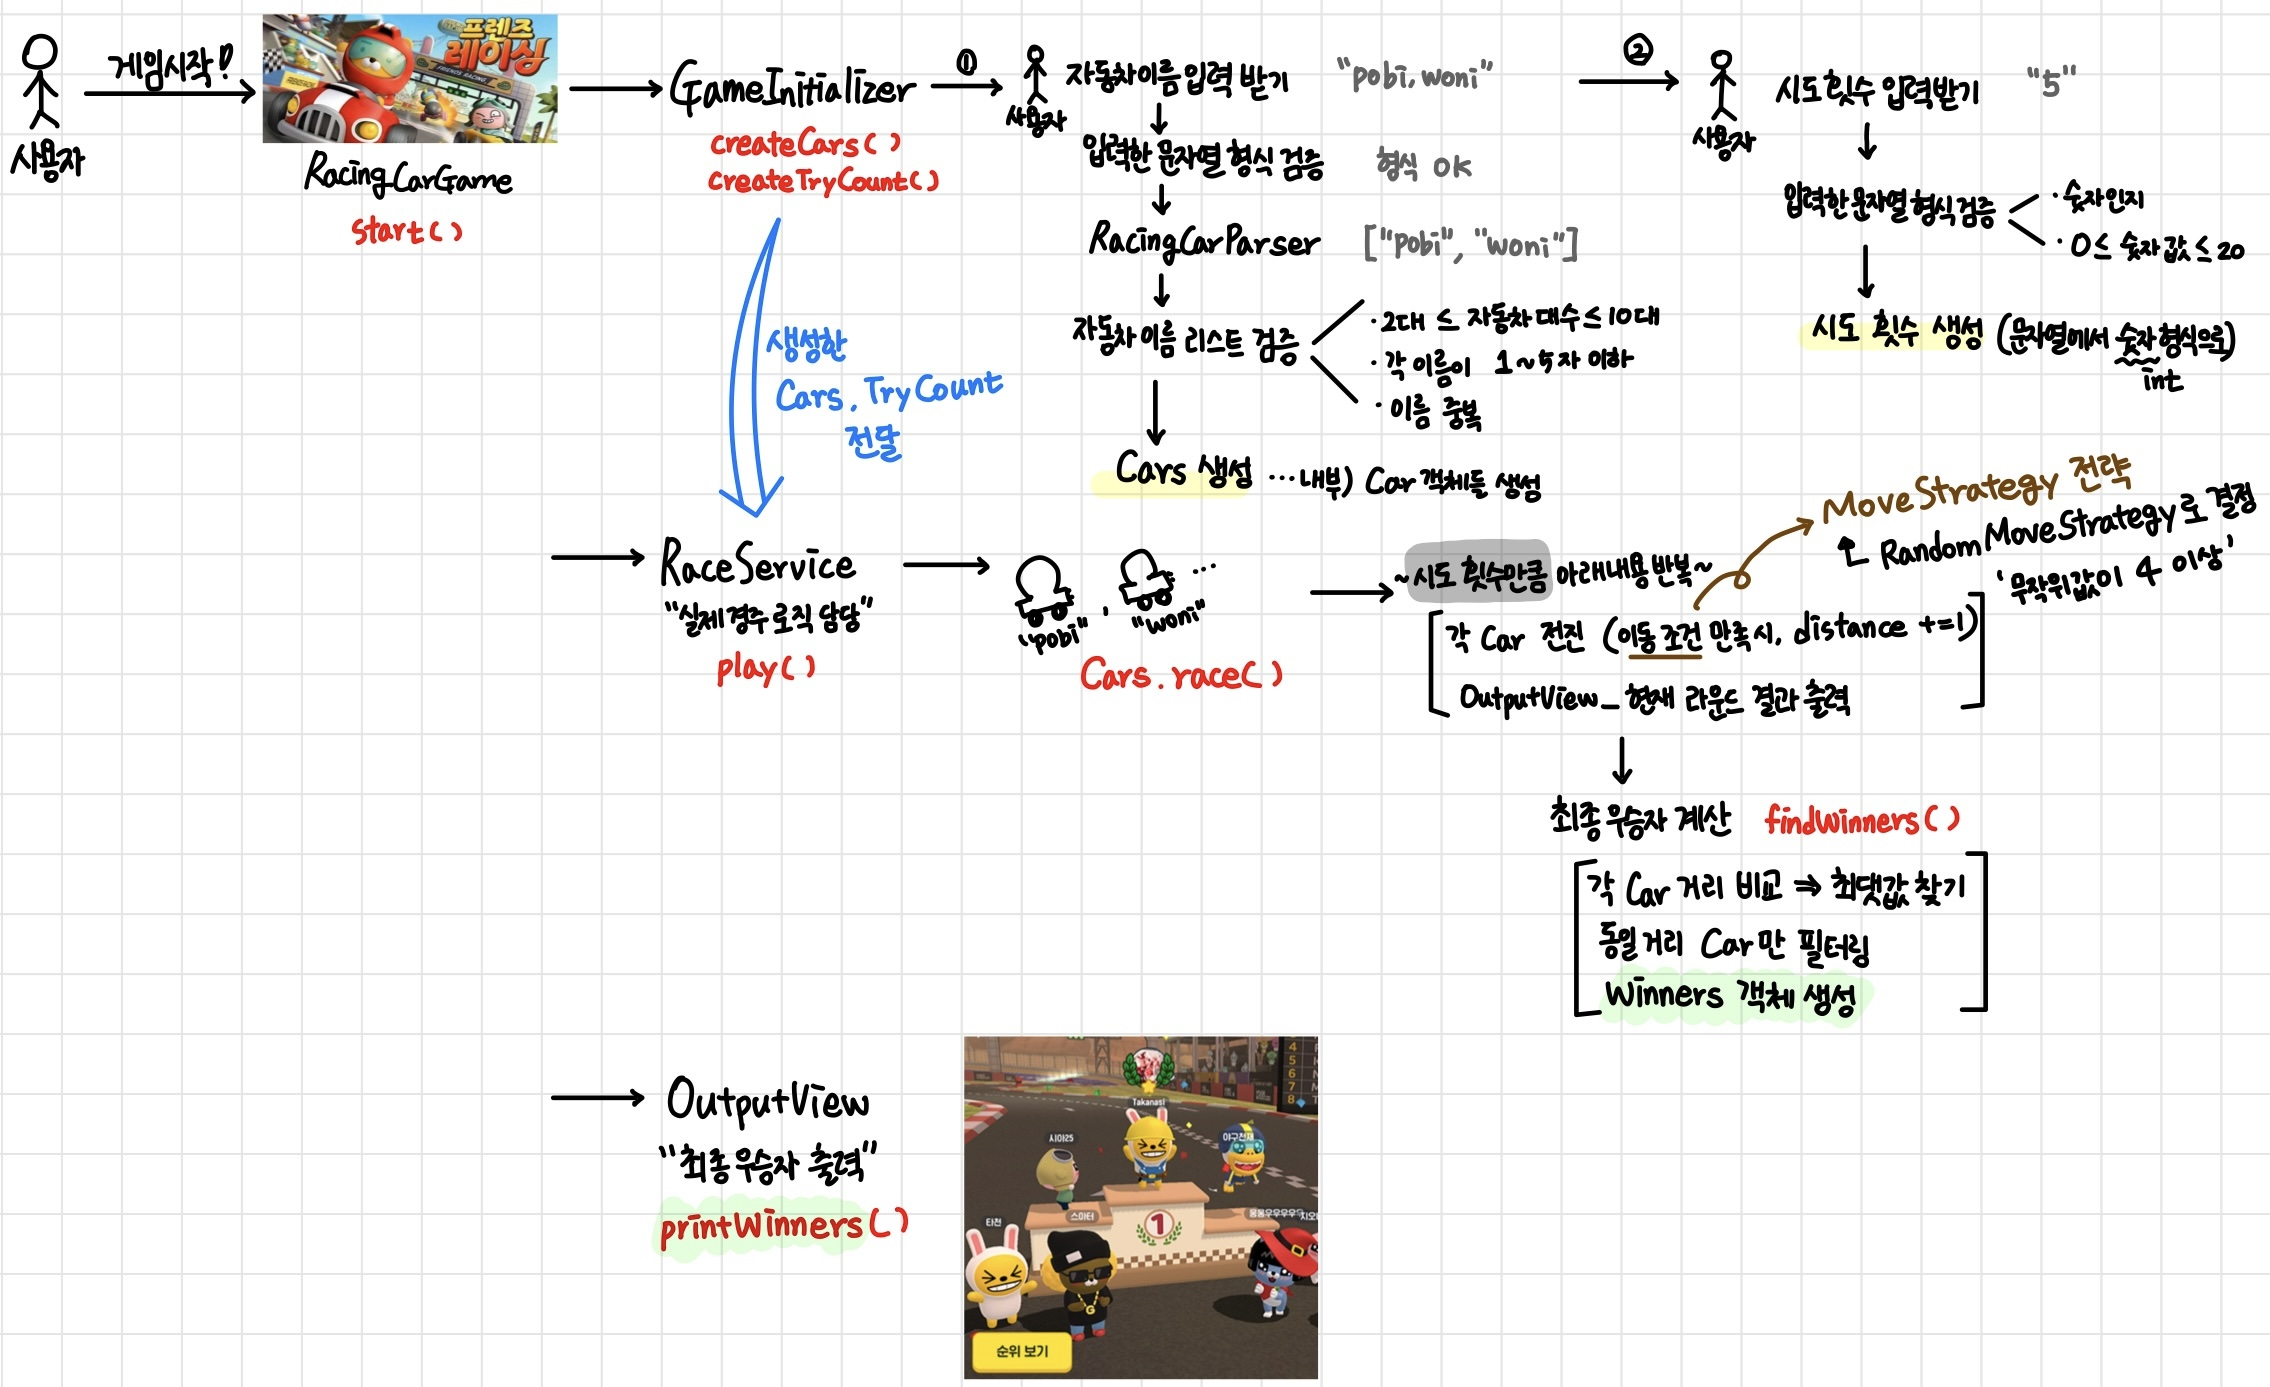
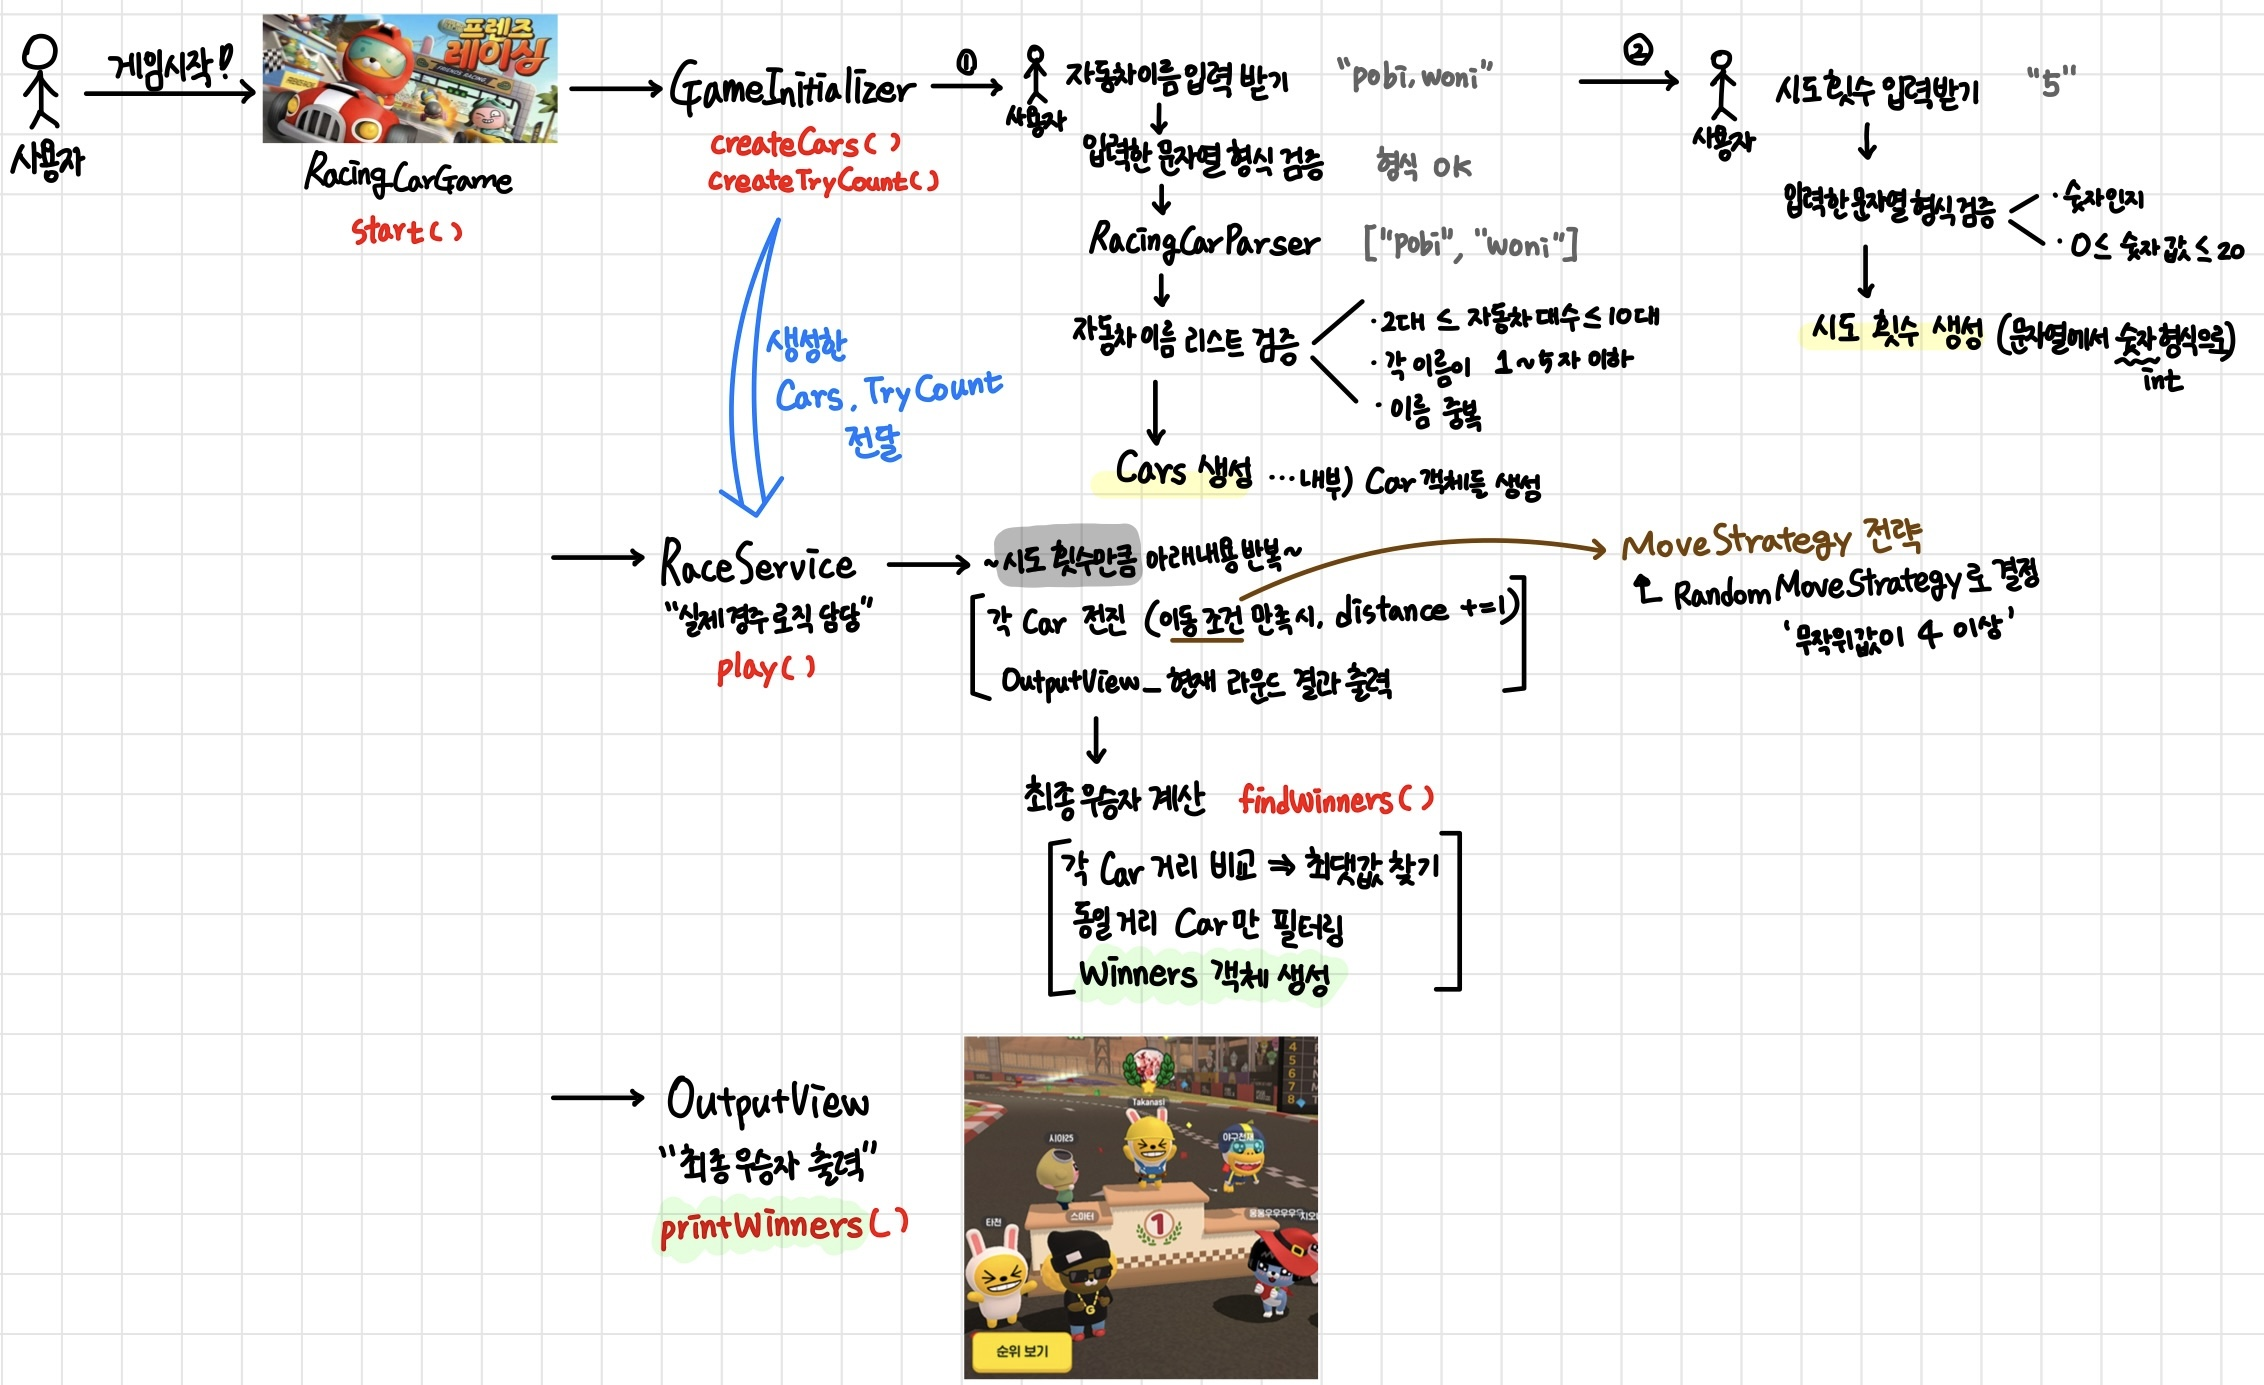
docs: 리팩토링으로 변경된 부분 문서에 적용
리팩토링으로 Cars와 RaceService의 역할이 변경되어 그 부분을 그림과 글에도 적용하였다.
Cars는 raceOnce()로 자동차 이동만 담당하고, RaceService는 반복 수행하며 라운드 출력, 최종 우승자 계산까지
담당하게 되었다. 즉, 게임 진행 흐름 책임으로 바뀌게 되었다.

diff --git a/README.md b/README.md
@@ -129,10 +129,10 @@
 **전체 흐름**
 
 사용자가 자동차 이름과 시도 횟수를 입력한다.  
-`RacingCarGame`은 이 입력을 받아 전체 경주를 진행한다.
+`RacingCarGame`이 입력을 받아 전체 경주를 진행한다.
 
 1. `GameInitializer`가 입력을 받아 `Cars`와 `tryCount`를 생성한다.
 2. `RaceService`가 `Cars`와 `MoveStrategy`를 이용해 경주를 반복 실행한다.
-3. 각 라운드마다 자동차들이 이동하고, 결과가 `OutputView`를 통해 출력된다.
-4. 모든 경주가 끝나면 `Cars`가 우승자를 계산한다.
+3. 각 라운드마다 `Cars.raceOne()`으로 자동차를 이동하고, 이동 결과를 `OutputView`로 출력한다.
+4. 모든 라운드가 끝나면 `Cars.findWinners()`가 최종 우승자를 계산한다.
 5. `RacingCarGame`이 `OutputView`를 통해 최종 우승자를 출력한다.
